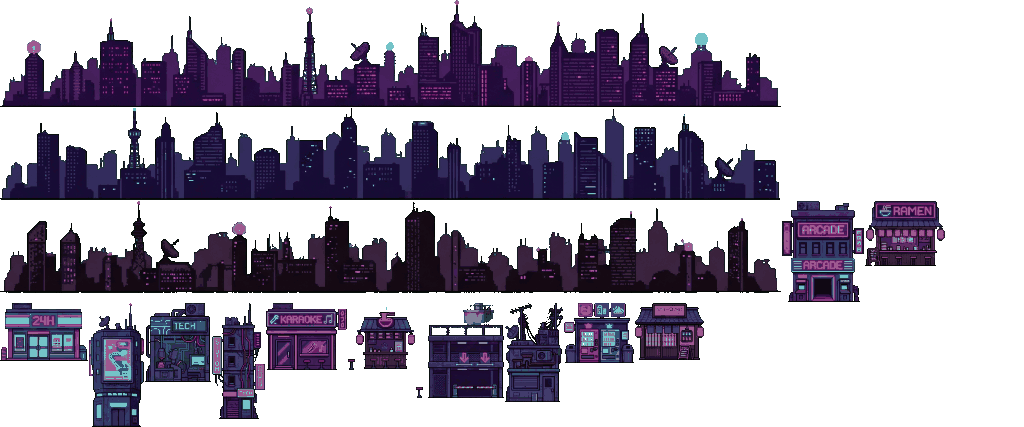
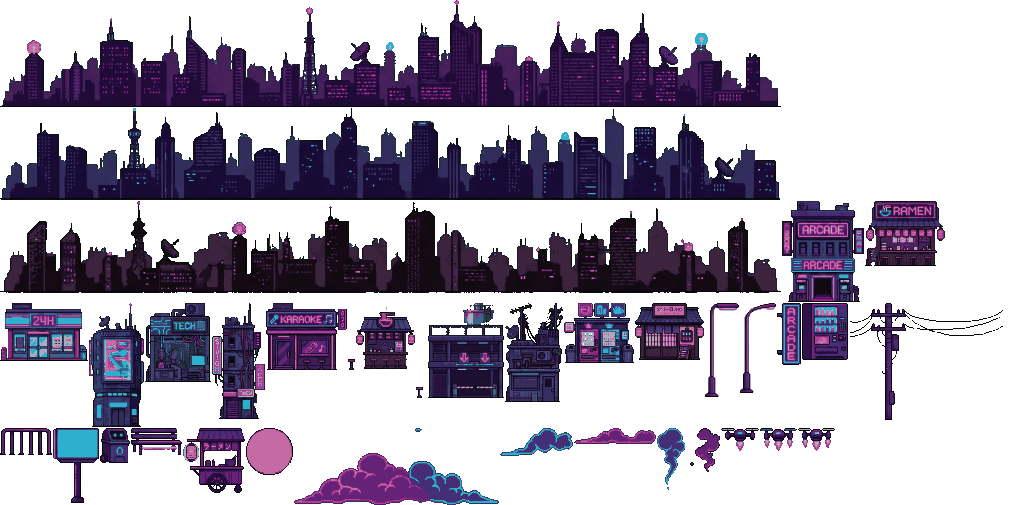
feat(décors) : mobilier, lune, nuages, fumées et drones pour l'ambiance cyber
Planche B du thème 5 générée avec Gemini depuis Chrome (lampadaires néon, enseigne ARCADE, distributeur,
poteau, rambarde, écran holographique, robot-poubelle, banc, chariot de ramen, lune rose, nuages, fumées,
drones). Les 5 ambiances ont maintenant leurs décors en sprites. Web uniquement : Android inchangé.

diff --git a/assets/bg/theme5.js b/assets/bg/theme5.js
@@ -91,6 +91,120 @@ export default {
    "y": 303,
    "w": 69,
    "h": 57
+  },
+  "lamp.0": {
+   "x": 705,
+   "y": 303,
+   "w": 34,
+   "h": 94
+  },
+  "lamp.1": {
+   "x": 740,
+   "y": 303,
+   "w": 36,
+   "h": 90
+  },
+  "sign": {
+   "x": 777,
+   "y": 303,
+   "w": 24,
+   "h": 62
+  },
+  "vendo": {
+   "x": 802,
+   "y": 303,
+   "w": 46,
+   "h": 57
+  },
+  "pole": {
+   "x": 849,
+   "y": 303,
+   "w": 154,
+   "h": 117
+  },
+  "rail": {
+   "x": 0,
+   "y": 428,
+   "w": 52,
+   "h": 27
+  },
+  "screen": {
+   "x": 53,
+   "y": 428,
+   "w": 46,
+   "h": 75
+  },
+  "bin": {
+   "x": 100,
+   "y": 428,
+   "w": 30,
+   "h": 35
+  },
+  "bench": {
+   "x": 131,
+   "y": 428,
+   "w": 51,
+   "h": 27
+  },
+  "cart": {
+   "x": 183,
+   "y": 428,
+   "w": 62,
+   "h": 65
+  },
+  "moon": {
+   "x": 246,
+   "y": 428,
+   "w": 47,
+   "h": 47
+  },
+  "cloud.0": {
+   "x": 294,
+   "y": 428,
+   "w": 205,
+   "h": 77
+  },
+  "cloud.1": {
+   "x": 500,
+   "y": 428,
+   "w": 73,
+   "h": 28
+  },
+  "cloud.2": {
+   "x": 574,
+   "y": 428,
+   "w": 82,
+   "h": 16
+  },
+  "smoke.0": {
+   "x": 657,
+   "y": 428,
+   "w": 37,
+   "h": 62
+  },
+  "smoke.1": {
+   "x": 695,
+   "y": 428,
+   "w": 25,
+   "h": 44
+  },
+  "drone.0": {
+   "x": 721,
+   "y": 428,
+   "w": 38,
+   "h": 23
+  },
+  "drone.1": {
+   "x": 760,
+   "y": 428,
+   "w": 37,
+   "h": 23
+  },
+  "drone.2": {
+   "x": 798,
+   "y": 428,
+   "w": 37,
+   "h": 23
   }
  }
 };

diff --git a/src/render/decor.js b/src/render/decor.js
@@ -56,7 +56,6 @@ const AMBIANCES = {
     lune: 'moon',
     nuages: ['cloud.0', 'cloud.1', 'lantern.1', 'lantern.3', 'lantern.0'],
   },
-  // Cyber : planche B (mobilier, lune, nuages) à régénérer, couches vides pour l'instant.
   chantier: {
     atlas: BG_THEME4,
     skyline: ['sky.0', 'sky.1', 'sky.2'],
@@ -74,7 +73,10 @@ const AMBIANCES = {
     skyline: ['sky.0', 'sky.1', 'sky.2'],
     facades: ['arcade', 'arcade', 'ramen', 'conbini', 'conbini', 'billboard', 'billboard', 'tech',
       'tower', 'tower', 'karaoke', 'karaoke', 'noodle', 'garage', 'machine', 'vending', 'izakaya'],
-    mobilier: [], lumineux: [], lune: null, nuages: [],
+    mobilier: ['lamp.0', 'vendo', 'rail', 'lamp.1', 'sign', 'pole', 'bench', 'screen', 'bin', 'cart', 'sign'],
+    lumineux: [],
+    lune: 'moon',
+    nuages: ['cloud.0', 'cloud.1', 'smoke.0', 'cloud.2', 'drone.0', 'smoke.1', 'drone.1', 'drone.2'],
   },
 };
 

diff --git a/tools/slice_bg.py b/tools/slice_bg.py
@@ -146,6 +146,21 @@ THEMES = {
              + bld(('arcade', 'ramen', 'conbini', 'billboard', 'tech', 'tower',
                     'karaoke', 'noodle', 'garage', 'machine', 'vending', 'izakaya'),
                    (4, 5, 6, 7, 8, 9, 11, 12, 13, 14, 15, 16))},
+            # Planche B régénérée le 01/11 : mobilier, lune, nuages, fumées, drones. Tuiles trop pauvres : ignorées.
+            {'fichier': 'atlas/theme5/Gemini_Generated_Image_l69bxil69bxil69b.jpeg',
+             'objets': [
+                 {'n': 'lamp.0', 'i': 1, 'cls': 'prop'}, {'n': 'lamp.1', 'i': 2, 'cls': 'prop'},
+                 {'n': 'sign', 'i': 0, 'cls': 'prop'}, {'n': 'vendo', 'i': 3, 'cls': 'prop'},
+                 {'n': 'pole', 'i': 4, 'cls': 'prop'}, {'n': 'rail', 'i': 5, 'cls': 'prop'},
+                 {'n': 'screen', 'i': 6, 'cls': 'prop'}, {'n': 'bin', 'i': 7, 'cls': 'prop'},
+                 {'n': 'bench', 'i': 8, 'cls': 'prop'}, {'n': 'cart', 'i': 9, 'cls': 'prop'},
+                 {'n': 'moon', 'i': 13, 'cls': 'ciel'},
+                 {'n': 'cloud.0', 'i': 17, 'cls': 'ciel'}, {'n': 'cloud.1', 'i': 11, 'cls': 'ciel'},
+                 {'n': 'cloud.2', 'i': 10, 'cls': 'ciel'},
+                 {'n': 'smoke.0', 'i': 18, 'cls': 'ciel', 'e': 0.14}, {'n': 'smoke.1', 'i': 19, 'cls': 'ciel', 'e': 0.14},
+                 {'n': 'drone.0', 'i': 14, 'cls': 'vol', 'e': 0.2}, {'n': 'drone.1', 'i': 16, 'cls': 'vol', 'e': 0.2},
+                 {'n': 'drone.2', 'i': 20, 'cls': 'vol', 'e': 0.2},
+             ]},
         ],
     },
     # Obstacles : échelle fixée par la hitbox (entities.js), pas par la taille de la planche.
